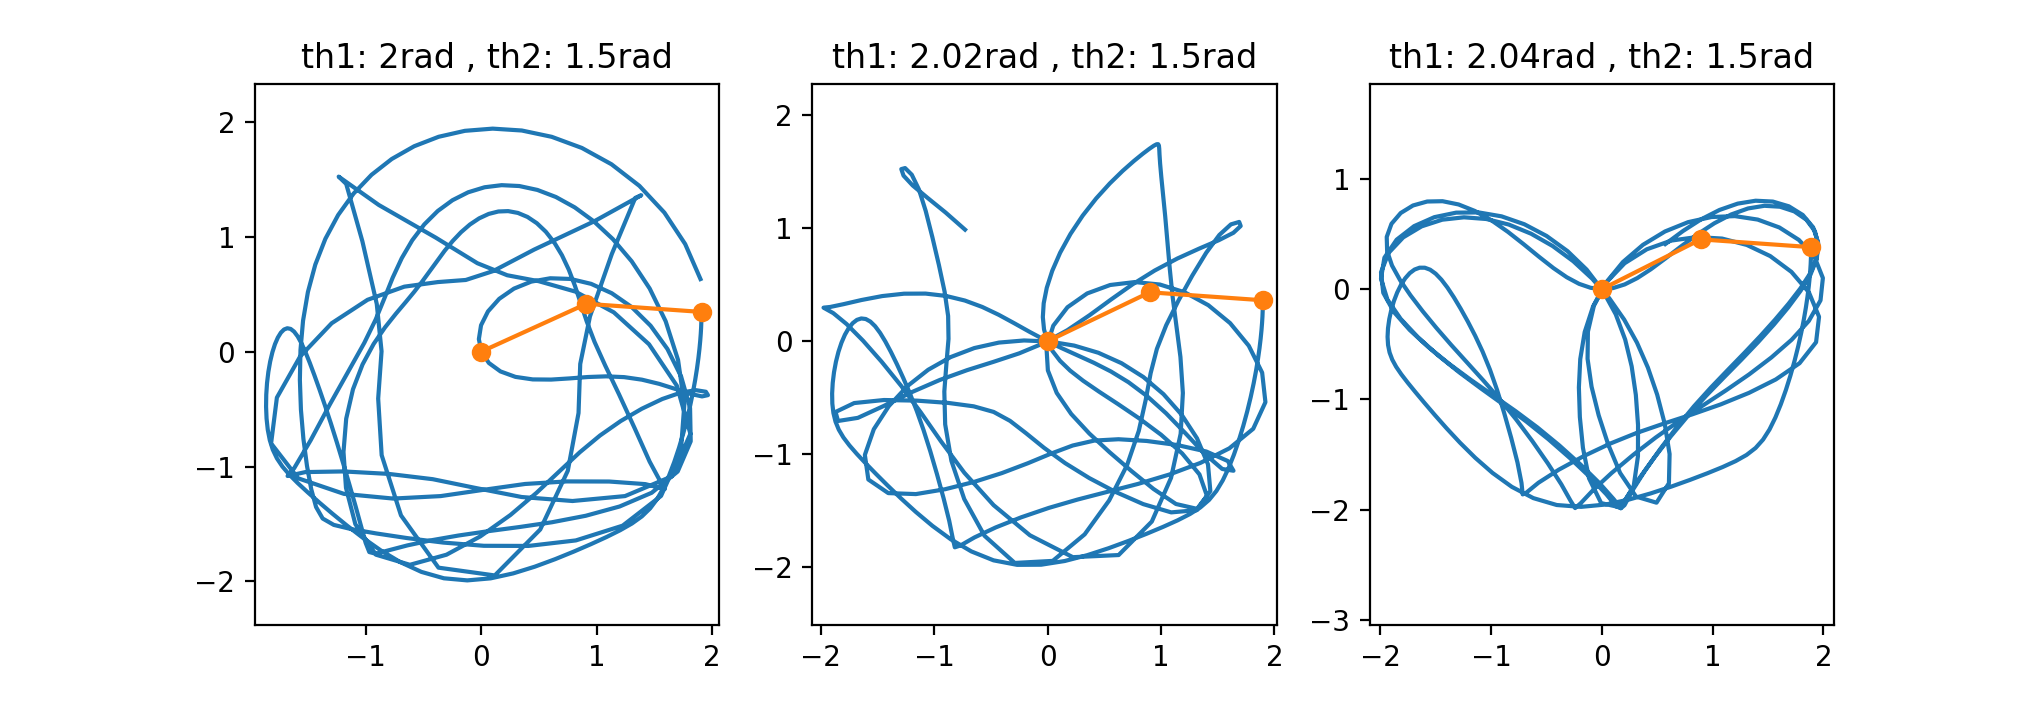
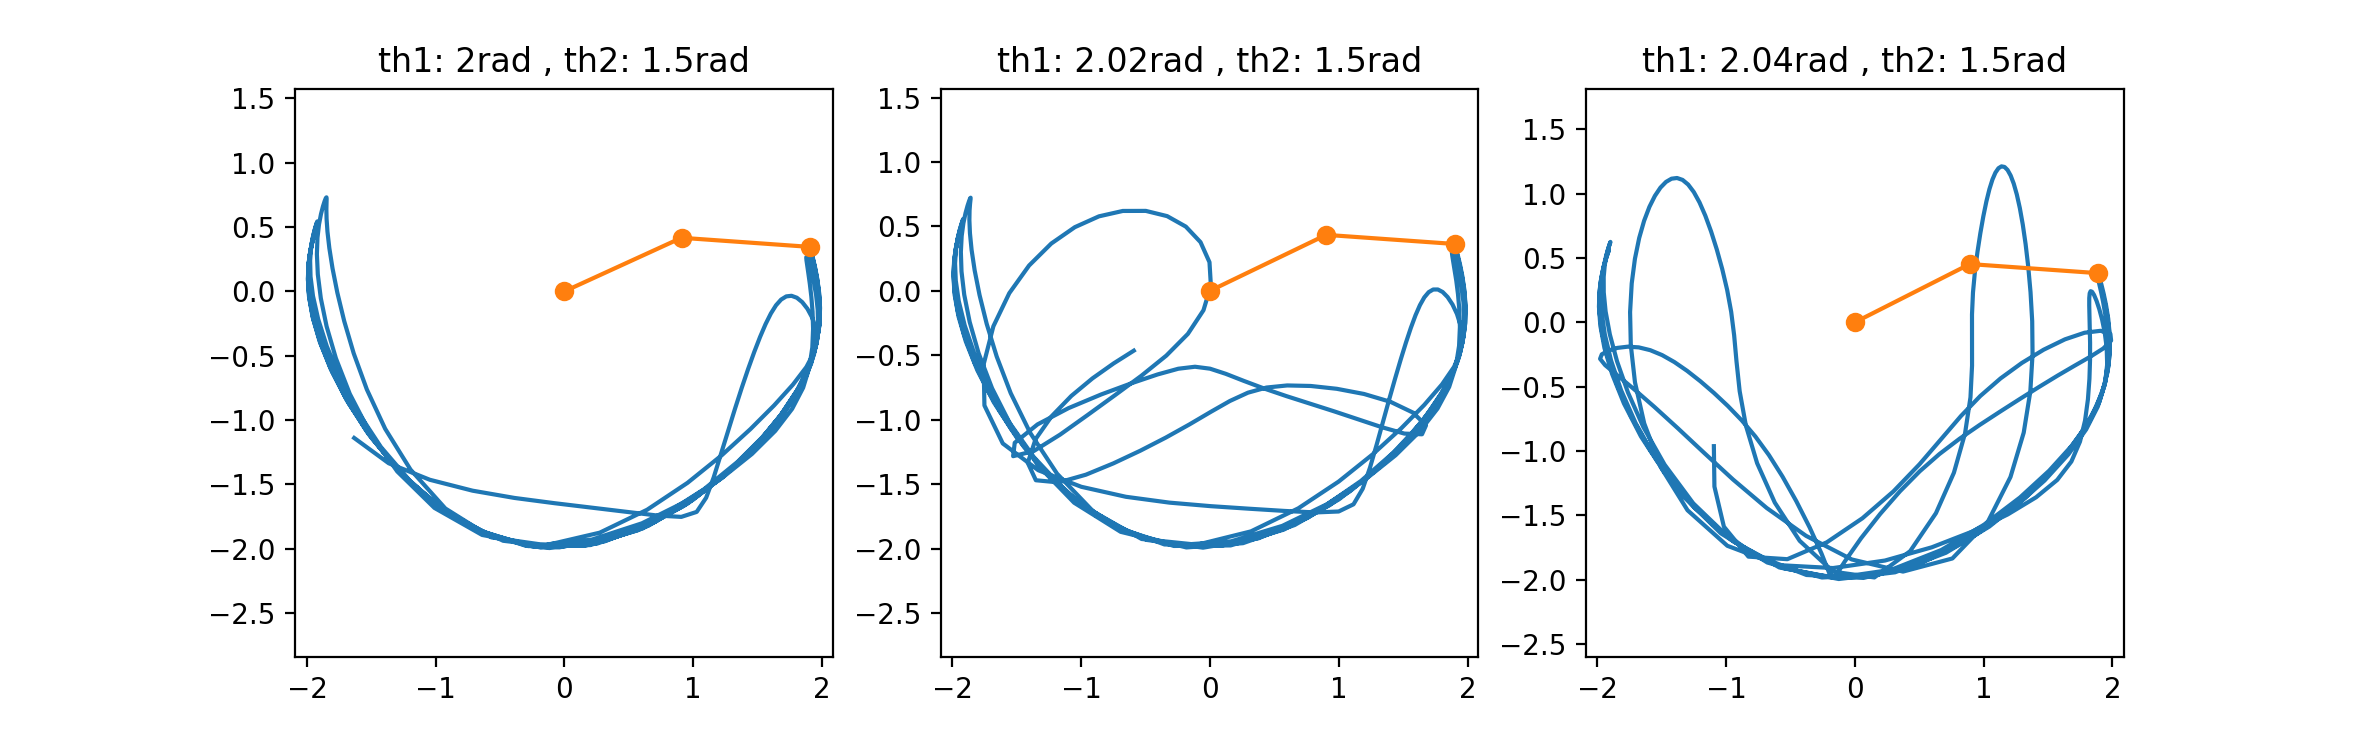
new formula on pendulum

diff --git a/pendulum.py b/pendulum.py
@@ -1,4 +1,4 @@
-import numpy as np
+from numpy import empty, arange, array, cos, sin
 from cauchy import meth_n_step, step_rk4
 
 
@@ -47,74 +47,88 @@ def frequencies(Theta, g, l):
         h = 0.3
         N = 50 # probably it's enough
         
-        x = np.arange(t0, t0 + N*h, h)
-        y = np.empty(N)
+        x = arange(t0, t0 + N*h, h)
+        y = empty(N)
         # theta'' + (g/l)sin(theta) = 0
-        F = lambda t, Y: np.array([Y[1], -(g/l) * np.sin(Y[0])])
+        F = lambda t, Y: array([Y[1], -(g/l) * sin(Y[0])])
 
         n = len(Theta)
-        freq = np.empty(n)
+        freq = empty(n)
         for i in range(n):
 
-                Y0 = np.array([Theta[i], 0])
+                Y0 = array([Theta[i], 0])
                 Y = meth_n_step(Y0, t0, N, h, F, step_rk4)
                 for j in range(N) :
                         y[j] = Y[j][0]
-
                 freq[i] = 1 / period(x, y)
 
         return freq
 
 
 # Y = [th1, th1', th2, th2']
-def step_double_pendulum(Y, g, l):
-        gl = g / l
-        cos_dth = np.cos(Y[0] - Y[2])
-        sin_dth = np.sin(Y[0] - Y[2])
-        sin_th1 = np.sin(Y[0])
-        sin_th2 = np.sin(Y[2])
-        alpha = 1 / (1 - ((cos_dth * cos_dth) / 2))
+def step_double_pendulum(Y, g, l, m):
+        th1 = Y[0]
+        th11 = Y[1]
+        th2 = Y[2]
+        th22 = Y[3]
+        alpha = 1 / (l * (3 * m - m * cos(2 * th1 - 2 * th2)))
         
-        Y1 = alpha * (Y[1] * Y[1] * sin_dth * cos_dth / 2
-                      + gl * sin_th2 * cos_dth
-                      - Y[3] * Y[3] * sin_dth / 2
-                      - gl * sin_th1)
-        Y3 = alpha * (Y[3] * Y[3] * sin_dth * cos_dth / 2
-                      + gl * sin_th1 * cos_dth
-                      + Y[1] * Y[1] * sin_dth
-                      - gl * sin_th2)
+        th111 = alpha * (-3 * g * m * sin(th1) - g * m * sin(th1 - 2 * th2)
+        - 2 * sin(th1 - th2) * m * (th22 * th22 * l + th11 * th11 * cos(th1 - th2)))
 
-        return np.array([Y[1], Y1, Y[3], Y3]) # [th1', th1'', th2', th2'']
+        th222 = alpha * (2 * sin(th1 - th2) * (th11 * th11 * l * 2 * m + 2 * g * m * cos(th1)
+        + th22 * th22 * l * m * cos(th1 - th2)))
+
+        return array([th11, th111, th22, th222]) # [th1', th1'', th2', th2'']
 
 
-def pendulum_path(th1, th2, g, l, N, h):
-        Y0 = np.array([th1, 0, th2, 0])
-        F = lambda t, Y: step_double_pendulum(Y, g, l)
+def pendulum_path(th1, th2, g, l, m, N, h):
+        Y0 = array([th1, 0, th2, 0])
+        F = lambda t, Y: step_double_pendulum(Y, g, l, m)
         sol = meth_n_step(Y0, 0, N, h, F, step_rk4)
 
-        n = len(sol)
-        x2 = np.empty(n)
-        for i in range(n): x2[i] = np.sin(sol[i][0]) + np.sin(sol[i][2])
-        y2 = np.empty(n)
-        for i in range(n): y2[i] = -np.cos(sol[i][0]) - np.cos(sol[i][2])
-
+        x2 = empty(N)
+        y2 = empty(N)
+        for i in range(N):
+            x2[i] =  sin(sol[i][0]) + sin(sol[i][2])
+            y2[i] = -cos(sol[i][0]) - cos(sol[i][2])
+            
         return x2, y2
 
 
-def flip_over_ratio(th1, th2, g, l):
-        N = 100
-        h = 0.5
-        Y0 = np.array([th1, 0, th2, 0])
-        F = lambda t, Y: step_double_pendulum(Y, g, l)
+def pendulum_all_info(th1, th2, g, l, m, N, h):
+        Y0 = array([th1, 0, th2, 0])
+        F = lambda t, Y: step_double_pendulum(Y, g, l, m)
         sol = meth_n_step(Y0, 0, N, h, F, step_rk4)
 
-        pi = 3.14
-        # theta2 = sol[:][2]
-        for i in range(1, N):
-                if (sol[i - 1][2] <= pi):
-                        if (sol[i][2] >= pi):
-                                return i / N
-                else:
-                        if (sol[i][2] <= pi):
-                                return i / N
+        t1 = empty(N)
+        t2 = empty(N)
+        x1 = empty(N)
+        x2 = empty(N)
+        y1 = empty(N)
+        y2 = empty(N)
+        for i in range(N):
+            t1[i] = sol[i][0]
+            t2[i] = sol[i][2]
+            
+            x1[i] = sin(t1[i])
+            x2[i] = x1[i] + sin(t2[i])
+            
+            y1[i] = -cos(t1[i])
+            y2[i] = y1[i] - cos(t2[i])
+            
+        return t1, t2, x1, y1, x2, y2
+
+
+def flip_over_ratio(th1, th2, g, l, m):
+        N = 200
+        h = 0.5
+        Y0 = array([th1, 0, th2, 0])
+        F = lambda t, Y: step_double_pendulum(Y, g, l, m)
+        sol = meth_n_step(Y0, 0, N, h, F, step_rk4)
+
+        for i in range(N):
+            if (3 * cos(sol[i][0]) + cos(sol[i][2]) > 2):
+                return i / N
+            
         return 1

diff --git a/pendulum_test.py b/pendulum_test.py
@@ -1,8 +1,7 @@
 from pendulum import *
+from matplotlib import animation
+from matplotlib import pyplot as plt
 import numpy as np
-import matplotlib.pyplot as plt
-import matplotlib.animation as animation
-
 
 def period_convergency():
         expected = 2 * np.pi
@@ -44,19 +43,42 @@ def draw_freqencies():
 # draw_freqencies()
 
 
+# fig = plt.figure()
+
+# ax = plt.axes(xlim=(0, 2), ylim=(0, 100))
+
+# N = 4
+# lines = [plt.plot([], [])[0] for _ in range(N)]
+
+# def init():    
+#     for line in lines:
+#         line.set_data([], [])
+#     return lines
+
+# def animate(i):
+#     for j,line in enumerate(lines):
+#         line.set_data([0, 2], [10 * j,i])
+#     return lines
+
+# anim = animation.FuncAnimation(fig, animate, init_func=init,
+#                                frames=100, interval=20, blit=True)
+
+# plt.show()
+
+
 def draw_pendulum():
         N = 300
         h = 0.1
+        m = 1
         g = 9.81
         l = 5
 
-        # TODO, fix limit of frame
-
         plt.subplot(1, 3, 1)
+        #plt.axes(xlim=(-2, 2), ylim=(-2, 2))
         th1 = 2
         th2 = 1.5
         plt.title("th1: " + str(th1) + "rad , th2: " + str(th2) + "rad")
-        x, y = pendulum_path(th1, th2, g, l, N, h)
+        x, y = pendulum_path(th1, th2, g, l, m, N, h)
         plt.axis("equal")
         plt.plot(x, y)
         linex = [0,  np.sin(th1),  np.sin(th1) + np.sin(th2)]
@@ -64,10 +86,11 @@ def draw_pendulum():
         plt.plot(linex, liney, "o-")
         
         plt.subplot(1, 3, 2)
+        #plt.axes(xlim=(-2, 2), ylim=(-2, 2))
         th1 = th1 + 0.02
         th2 = th2
         plt.title("th1: " + str(th1) + "rad , th2: " + str(th2) + "rad")
-        x, y = pendulum_path(th1, th2, g, l, N, h)
+        x, y = pendulum_path(th1, th2, g, l, m, N, h)
         plt.axis("equal")
         plt.plot(x, y)
         linex = [0,  np.sin(th1),  np.sin(th1) + np.sin(th2)]
@@ -75,10 +98,11 @@ def draw_pendulum():
         plt.plot(linex, liney, "o-")
 
         plt.subplot(1, 3, 3)
+        #plt.axes(xlim=(-2, 2), ylim=(-2, 2))
         th1 = th1 + 0.02
         th2 = th2
         plt.title("th1: " + str(th1) + "rad , th2: " + str(th2) + "rad")
-        x, y = pendulum_path(th1, th2, g, l, N, h)
+        x, y = pendulum_path(th1, th2, g, l, m, N, h)
         plt.axis("equal")
         plt.plot(x, y)
         linex = [0,  np.sin(th1),  np.sin(th1) + np.sin(th2)]
@@ -93,17 +117,18 @@ def draw_pendulum():
 def draw_flip_over(N):
         g = 9.81
         l = 5
+        m = 1
         angle = lambda i: -3 + (i * 6 / N)
         
         M = np.empty((N, N))
         for i in range(N):
                 for j in range(N):
-                        M[i][j] = flip_over_ratio(angle(i), angle(j), g, l)
+                        M[i][j] = flip_over_ratio(angle(j), angle(i), g, l, m)
 
         fig = plt.figure(5)
         ax = plt.subplot(111)
-        im = ax.imshow(M, cmap=plt.get_cmap('hot'))
+        im = ax.imshow(M, cmap=plt.get_cmap("YlGn"))
         fig.colorbar(im)
         plt.show()
 
-draw_flip_over(300)
+draw_flip_over(20)
